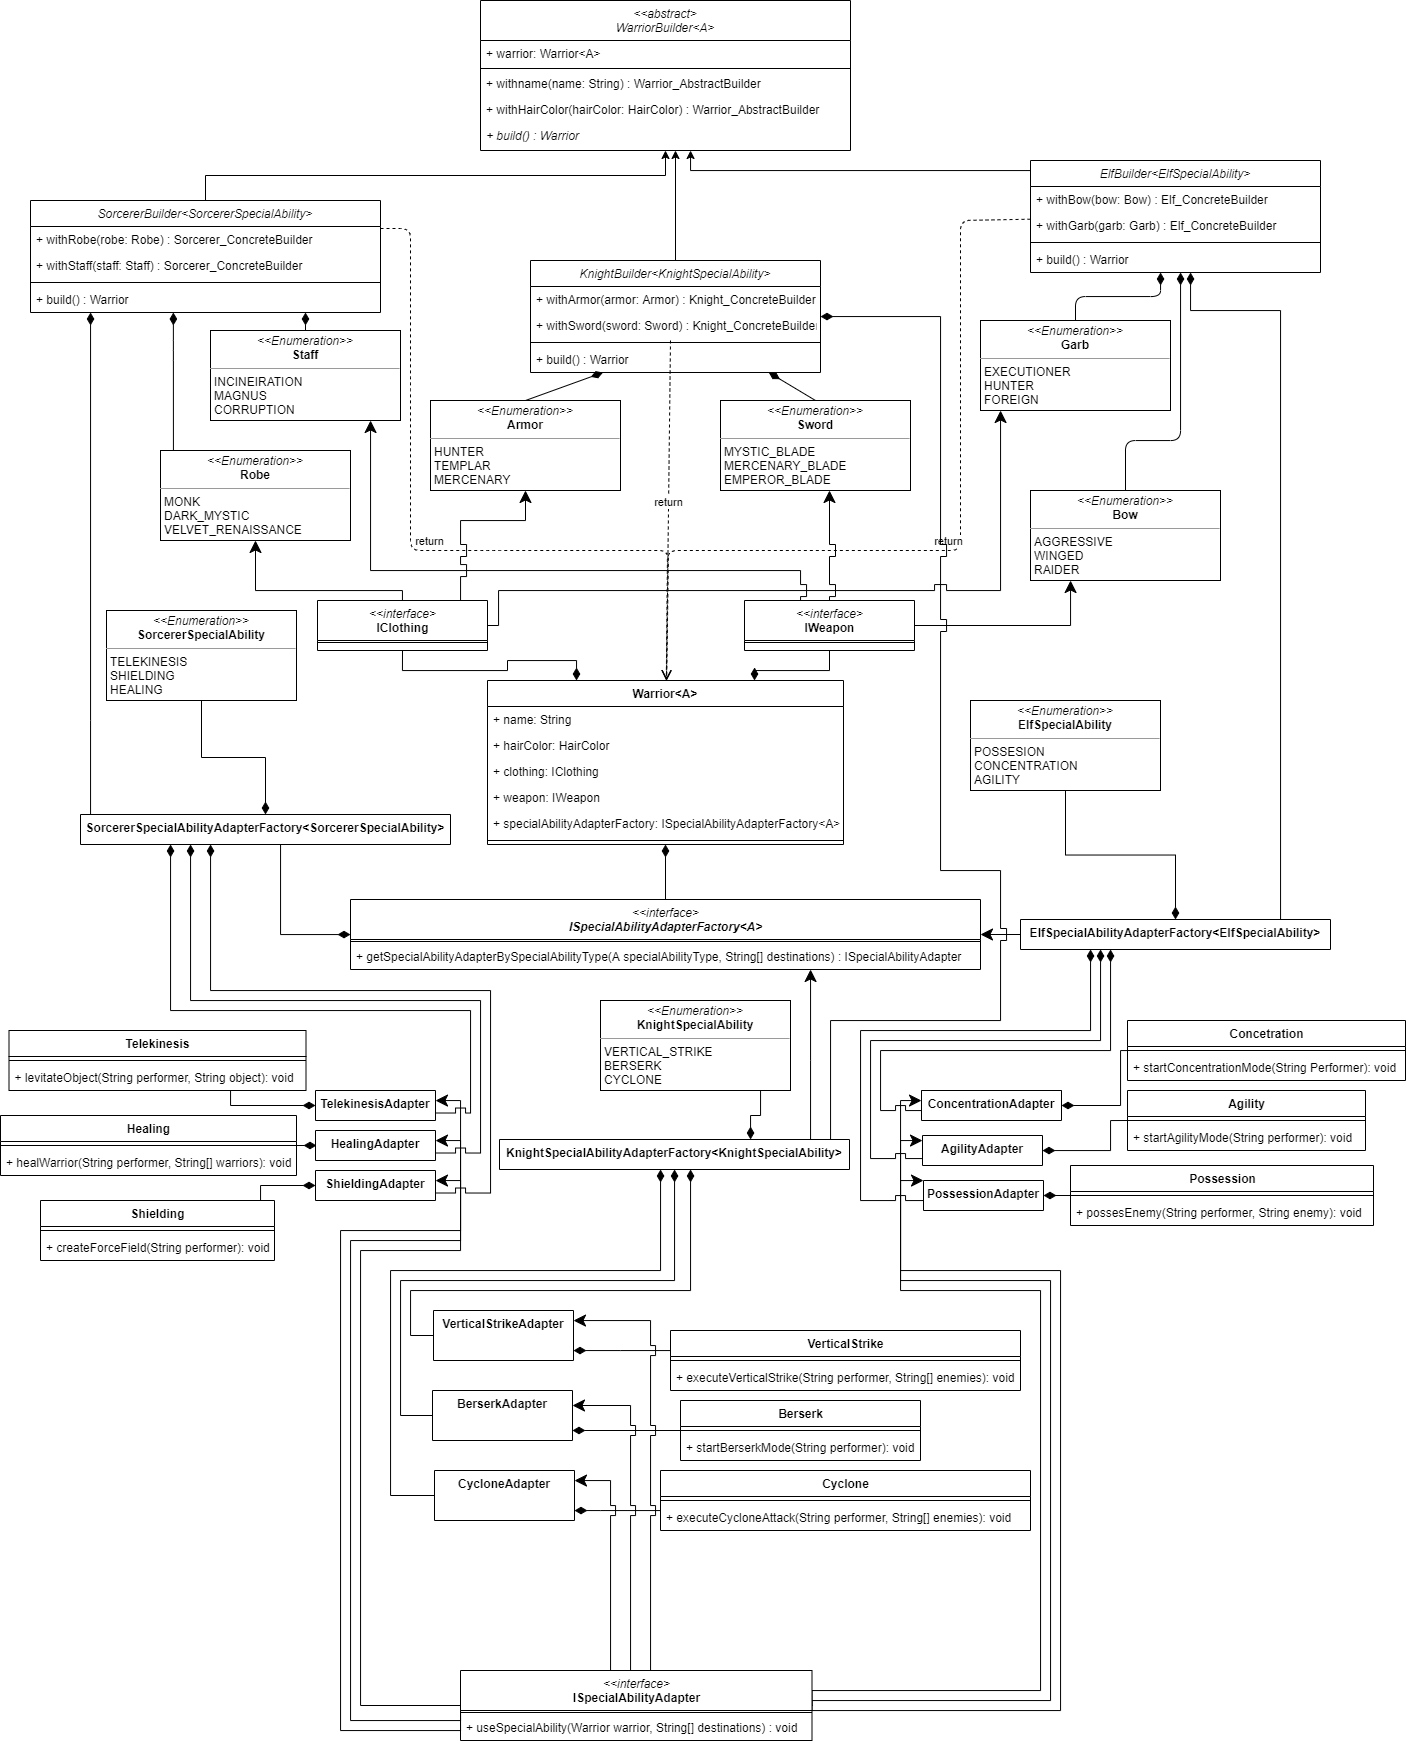
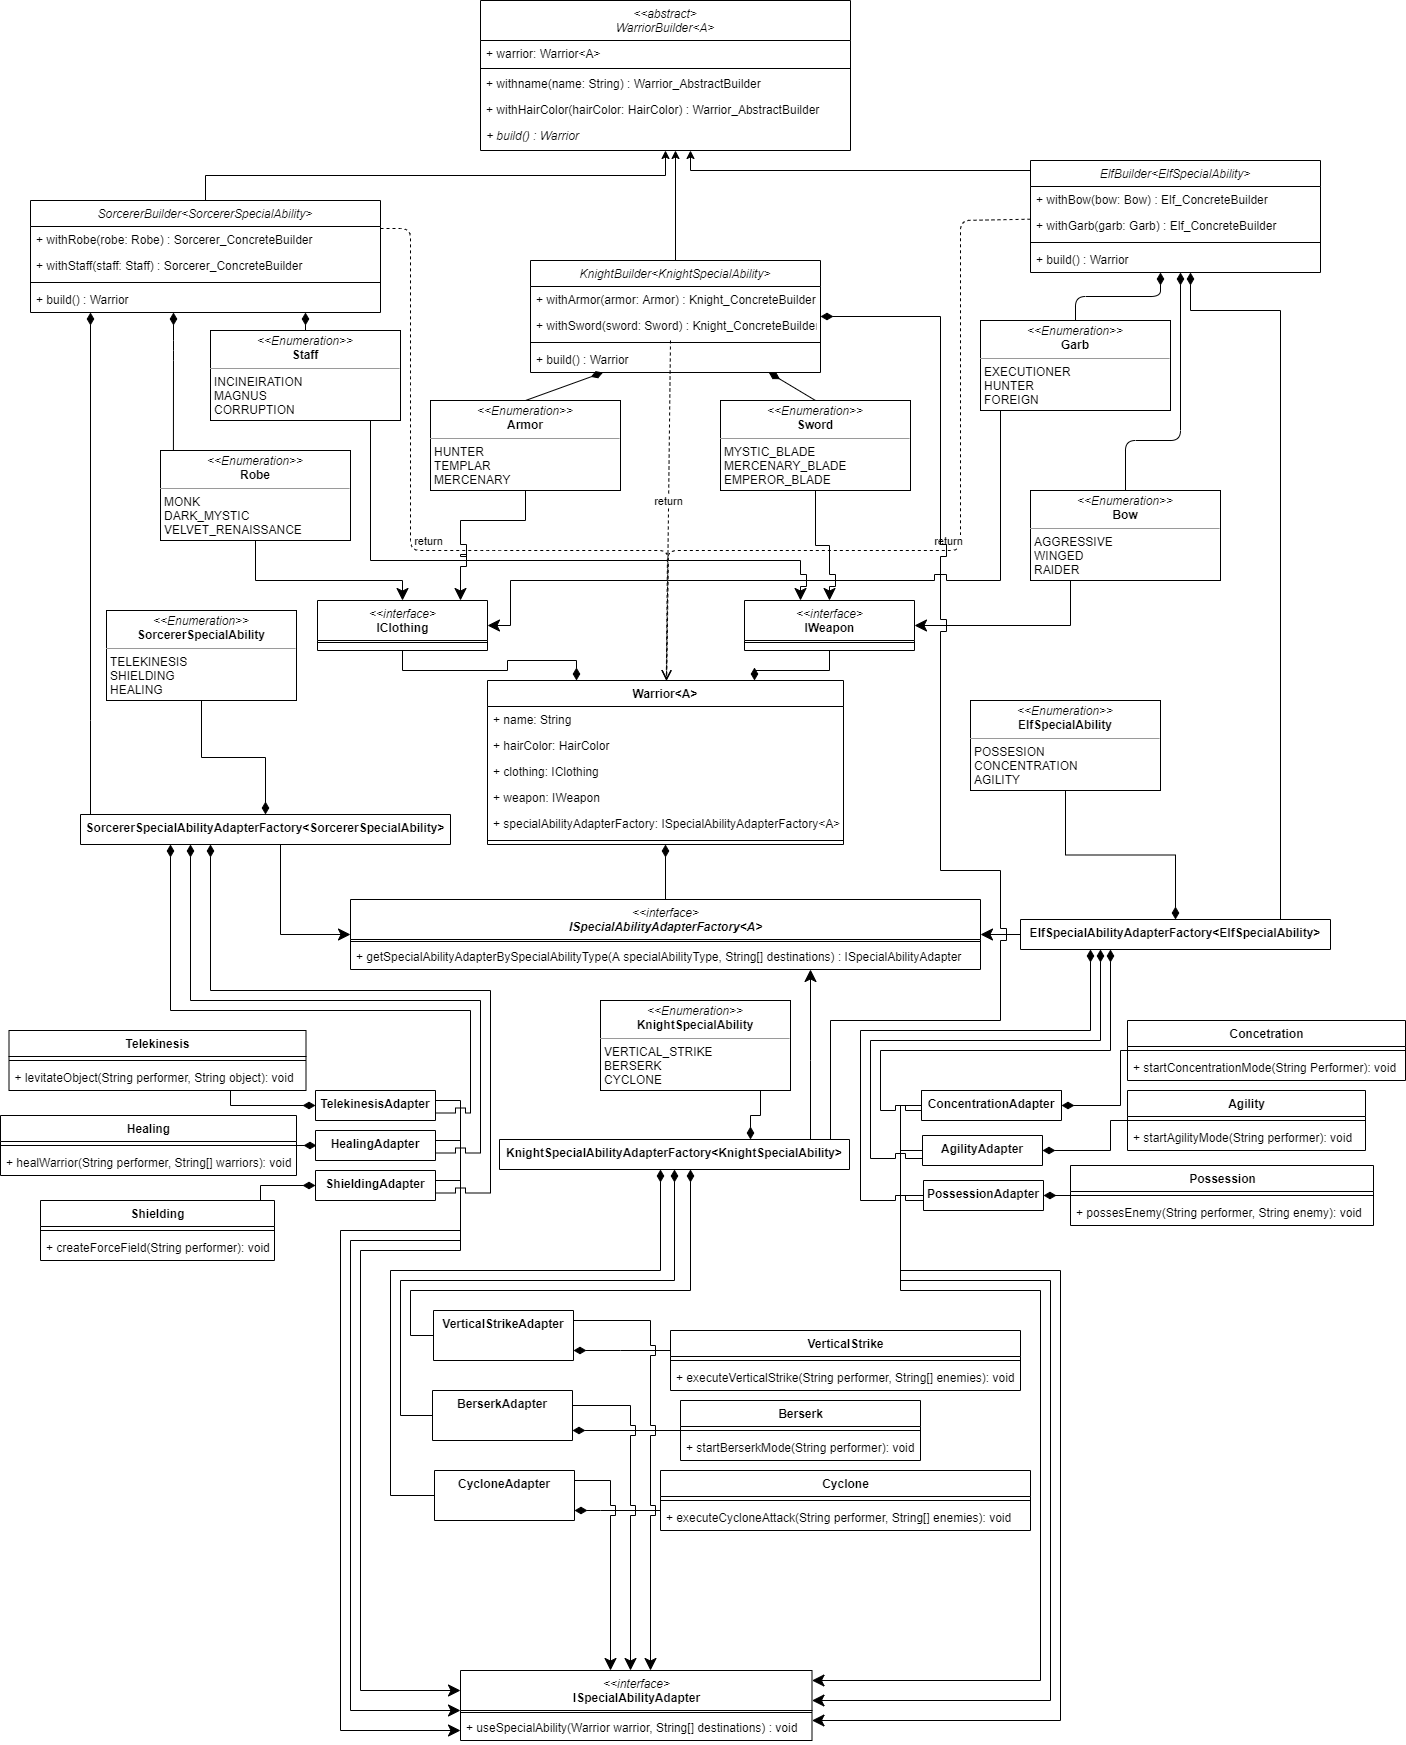
Warrior Special Ability Readme rewrited

diff --git a/Structural Patterns/Adapter/README.md b/Structural Patterns/Adapter/README.md
@@ -1,0 +1,8 @@
+Based on the necessity presented in the <a href="https://github.com/Rick-Addiction/Design-Patterns-Studies/tree/master/Creational Patterns/Builder">Builder section</a>, besides spawning warriors, the solution needs to manage which Special Abilities each of the warriors can perform and how to execute them.
+
+In order to achieve the expected objective, we are going to use the Adapter Pattern to establish how to execute these special abilities. And the Factory Design Pattern has been applied to manage which Special Abilities each of the warriors can perform.
+
+Therefore, warriors Builder defines which kind of SpecialAbilityAdapterFactory for each of the warriors. Based on the type of Special Ability chosen, these factories can specify the Adapter applied to perform each Special Ability.
+
+<img src="https://github.com/Rick-Addiction/Design-Patterns-Studies/blob/master/Structural Patterns/Adapter/doc/WARRIOR_SPECIAL_ABILITY.png?raw=true" width="100%"></img>
+
